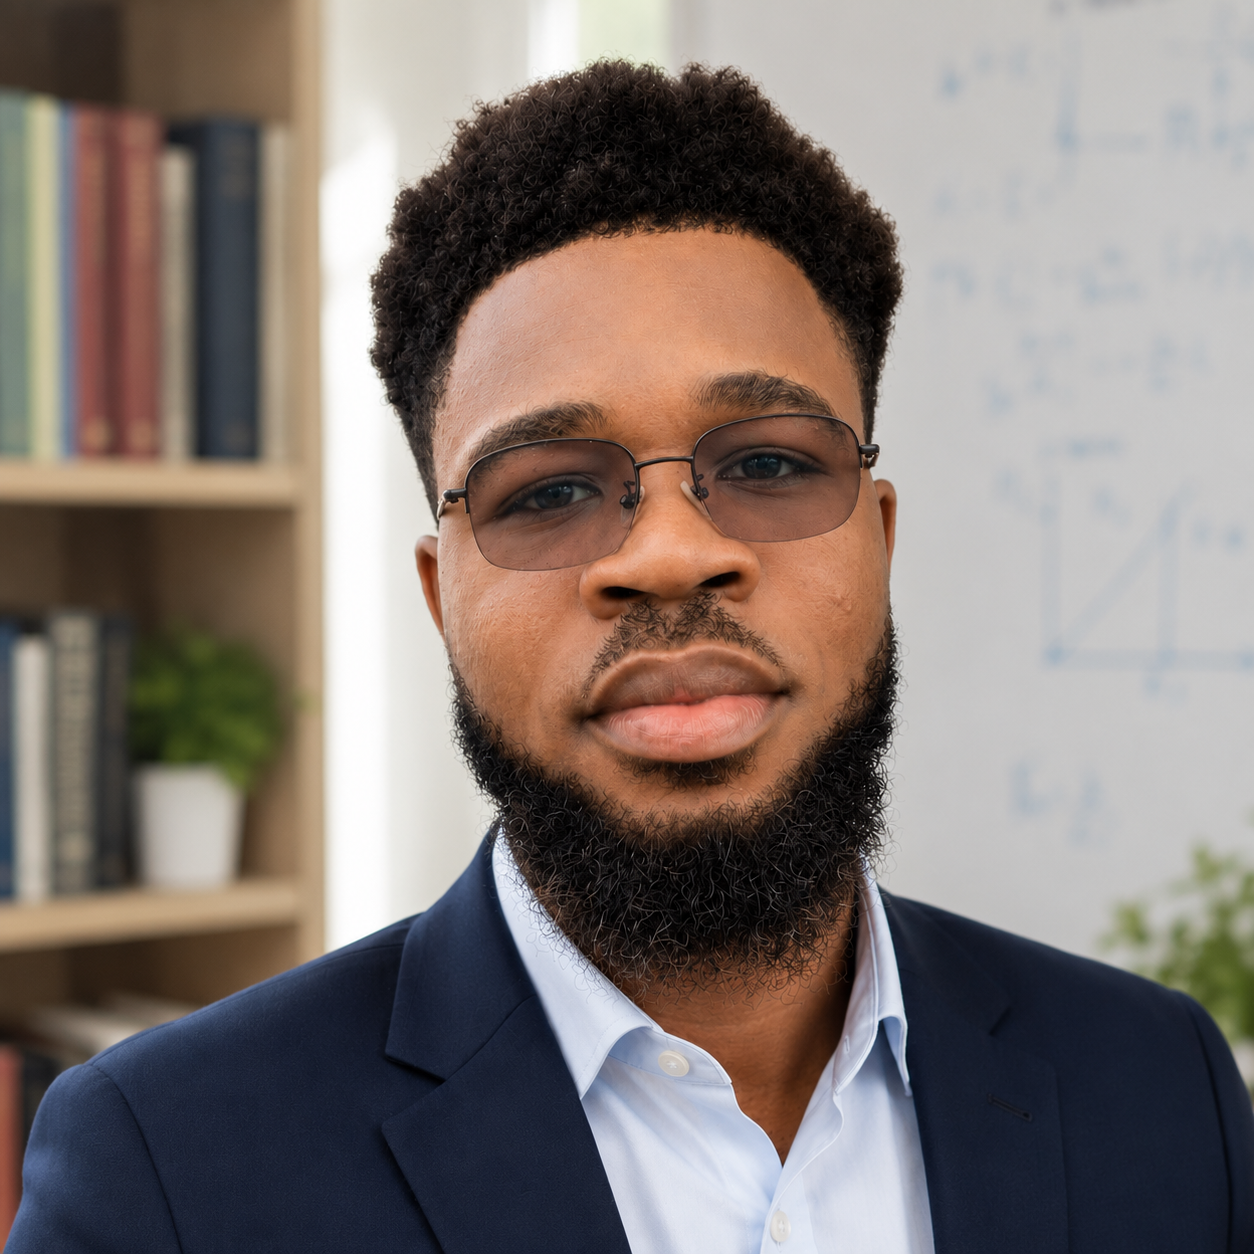
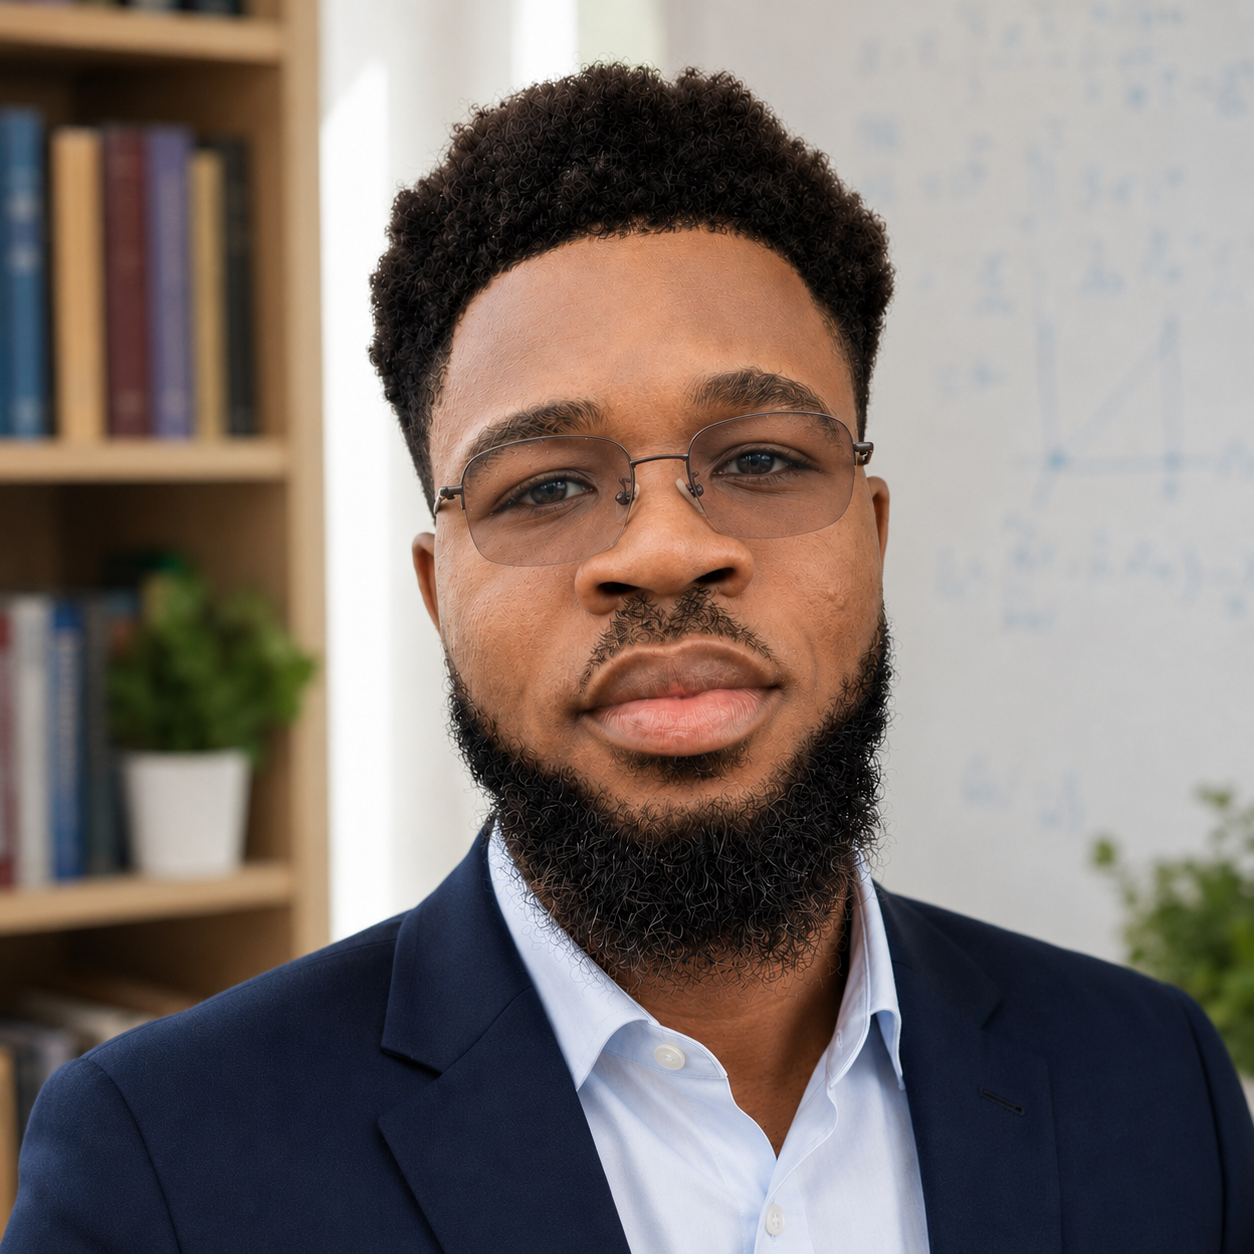
Enhance personal and project descriptions for clarity and detail; update SEO metadata and add new response page

diff --git a/response.html b/response.html
@@ -1,0 +1,1 @@
+<!doctype html><html lang="en" class="no-js"><head><meta charset="utf-8"> <!-- begin SEO --><title> Data Scientist Master’s in Mathematics &amp; Applications - Geovany Batista Polo LAGUERRE</title><meta name="description" content="Academic and professional portfolio in data science, applied mathematics, and research."><meta name="robots" content="index,follow,max-snippet:-1,max-image-preview:large,max-video-preview:-1"><meta name="author" content="Geovany Batista Polo LAGUERRE"><link rel="canonical" href="/"><link rel="alternate" hreflang="en-US" href="/"><link rel="alternate" hreflang="x-default" href="/"><meta property="og:locale" content="en-US"><meta property="og:site_name" content="Geovany Batista Polo LAGUERRE"><meta property="og:title" content=" Data Scientist Master’s in Mathematics &amp; Applications - Geovany Batista Polo LAGUERRE "><meta property="og:description" content="Academic and professional portfolio in data science, applied mathematics, and research."><meta property="og:url" content="/"><meta property="og:type" content="website"><meta property="og:image" content="/profile.png"><meta property="og:image:alt" content="Data Scientist | Master&#39;s in Mathematics &amp; Applications"><meta name="twitter:card" content="summary_large_image"><meta name="twitter:title" content=" Data Scientist Master’s in Mathematics &amp; Applications - Geovany Batista Polo LAGUERRE "><meta name="twitter:description" content="Academic and professional portfolio in data science, applied mathematics, and research."><meta name="twitter:url" content="/"><meta name="twitter:image" content="/profile.png"> <script type="application/ld+json"> { "@context": "https://schema.org", "@graph": [ { "@type": "WebSite", "@id": "/#website", "url": "/", "name": "Geovany Batista Polo LAGUERRE", "description": "Data Scientist & Master's Student in Mathematics and Applications", "inLanguage": "en-US" }, { "@type": "Person", "@id": "/#person", "name": "Geovany Batista Polo LAGUERRE", "url": "/", "sameAs": ["https://github.com/Geobatpo07","https://www.linkedin.com/in/geobatpo07","https://www.researchgate.net/profile/Geovany-Batista-Polo-Laguerre","https://orcid.org/0009-0008-8722-6411"] }, { "@type": "WebPage", "@id": "/#webpage", "url": "/", "name": " Data Scientist Master’s in Mathematics &amp; Applications - Geovany Batista Polo LAGUERRE ", "description": "Academic and professional portfolio in data science, applied mathematics, and research.", "isPartOf": { "@id": "/#website" }, "about": { "@id": "/#person" }, "inLanguage": "en-US" } ] } </script> <!-- end SEO --><link href="/feed.xml" type="application/atom+xml" rel="alternate" title="Geovany Batista Polo LAGUERRE Feed"><meta name="viewport" content="width=device-width, initial-scale=1.0"> <script> document.documentElement.className = document.documentElement.className.replace(/\bno-js\b/g, '') + ' js '; </script> <!-- For all browsers --><link rel="stylesheet" href="/assets/css/main.css"> <!-- start custom head snippets --> <!-- Support for Academicons --><link rel="stylesheet" href="/assets/css/academicons.css"/> <!-- favicon from https://commons.wikimedia.org/wiki/File:OOjs_UI_icon_academic-progressive.svg --><link rel="apple-touch-icon" sizes="180x180" href="/images/apple-touch-icon-180x180.png"/><link rel="icon" type="image/svg+xml" href="/images/favicon.svg"/><link rel="icon" type="image/png" href="/images/favicon-32x32.png" sizes="32x32"/><link rel="icon" type="image/png" href="/images/favicon-192x192.png" sizes="192x192"/><link rel="manifest" href="/images/manifest.json"/><link rel="icon" href="/images/favicon.ico"/><meta name="theme-color" content="#ffffff"/> <!-- end custom head snippets --></head><script src="https://cdn.plot.ly/plotly-latest.min.js"></script><body> <!--[if lt IE 9]><div class="notice--danger align-center" style="margin: 0;">You are using an <strong>outdated</strong> browser. Please <a href="http://browsehappy.com/">upgrade your browser</a> to improve your experience.</div><![endif]--><div class="masthead"><div class="masthead__inner-wrap"><div class="masthead__menu"><nav id="site-nav" class="greedy-nav"> <button><span class="navicon"></span></button><ul class="visible-links"><li class="masthead__menu-item masthead__menu-item--lg persist selected"> <a href="/">Geovany Batista Polo LAGUERRE</a></li><li class="masthead__menu-item "> <a href="/publications/">Publications</a></li><li class="masthead__menu-item "> <a href="/teaching/">Teaching</a></li><li class="masthead__menu-item "> <a href="/supervisors/">Supervisors</a></li><li class="masthead__menu-item "> <a href="/portfolio/">Portfolio</a></li><li class="masthead__menu-item "> <a href="/cv/">CV</a></li><li id="theme-toggle" class="masthead__menu-item persist tail"> <a role="button" aria-labelledby="theme-icon"><i id="theme-icon" class="fa-solid fa-sun" aria-hidden="true" title="toggle theme"></i></a></li></ul><ul class="hidden-links hidden"></ul></nav></div></div></div><div id="main" role="main"><div class="sidebar sticky"><div itemscope itemtype="http://schema.org/Person"><div class="author__avatar"> <img src="/images/profile.png" class="author__avatar" alt="Geovany Batista Polo LAGUERRE" fetchpriority="high" /></div><div class="author__content"><h3 class="author__name">Geovany Batista Polo LAGUERRE</h3><p class="author__pronouns">he/him</p><p class="author__bio">Data Scientist | Master's in Mathematics & Applications | Passionate about modeling, machine learning, and data engineering</p></div><div class="author__urls-wrapper"> <button class="btn btn--inverse">Follow</button><ul class="author__urls social-icons"> <!-- Font Awesome icons / Biographic information --><li class="author__desktop"><i class="fas fa-fw fa-location-dot icon-pad-right" aria-hidden="true"></i>Pointe-à-Pitre, Guadeloupe</li><li class="author__desktop"><i class="fas fa-fw fa-building-columns icon-pad-right" aria-hidden="true"></i>University of the French Antilles</li><!-- Font Awesome and Academicons icons / Academic websites --><li><a href="https://orcid.org/0009-0008-8722-6411"><i class="ai ai-orcid ai-fw icon-pad-right"></i>ORCID</a></li><li><a href="https://www.researchgate.net/profile/Geovany-Batista-Polo-Laguerre"><i class="fab fa-fw fa-researchgate icon-pad-right" aria-hidden="true"></i>ResearchGate</a></li><!-- Font Awesome icons / Repositories and software development --><li><a href="https://github.com/Geobatpo07"><i class="fab fa-fw fa-github icon-pad-right" aria-hidden="true"></i>GitHub</a></li><!-- Font Awesome icons / Social media --><li><a href="https://www.linkedin.com/in/geobatpo07"><i class="fab fa-fw fa-linkedin icon-pad-right" aria-hidden="true"></i>LinkedIn</a></li></ul></div></div></div><article class="page" itemscope itemtype="http://schema.org/CreativeWork"><meta itemprop="headline" content=" Data Scientist Master’s in Mathematics &amp; Applications "><div class="page__inner-wrap"><header><h1 class="page__title" itemprop="headline"><table><tbody><tr><td>Data Scientist</td><td>Master’s in Mathematics &amp; Applications</td></tr></tbody></table></h1></header><section class="page__content" itemprop="text"><h2 id="welcome">Welcome</h2><p>I’m <strong>Geovany Batista Polo LAGUERRE</strong>, a Data Scientist and Master’s student in Mathematics and Applications at the Université des Antilles. I combine rigorous mathematical foundations with modern data engineering practices to solve real-world problems in environmental modeling, public health, data science, and scientific computing.</p><hr /><h2 id="core-strengths">Core Strengths</h2><div id="radarChart" style="width: 100%; height: 560px"></div><script> (function() { // Serialize the incoming Liquid value safely into a JS value. `| jsonify` will // emit either a JS literal (object/array) or a JSON-encoded string depending // on how the include was called. We handle both cases. var data_serialized = {"data":[{"type":"scatterpolar","r":[95,92,89,88,90,87,85,91],"theta":["Mathematical Modeling","Statistical Inference","Machine Learning","Scientific Computing","Data Engineering","Optimization & Numerical Methods","Experimental Design","Research Communication"],"fill":"toself","line":{"color":"#0B7285","width":3},"fillcolor":"rgba(11,114,133,0.28)"}],"layout":{"title":"Competency Radar - Data Scientist","polar":{"radialaxis":{"visible":true,"range":[0,100]}},"showlegend":false},"config":{"responsive":true,"displayModeBar":false}}; var layout_serialized = "{}"; var config_serialized = "{}"; function parseMaybeString(s) { // If Liquid produced a JS literal (object/array), `typeof s` will be 'object'. // If Liquid produced a JSON string, `typeof s` will be 'string' and we try to parse it. try { if (typeof s === 'string') { // Some callers pass a JSON string (from the page include using single quotes). // Attempt a normal parse. If that yields another string (double-encoded), parse again. var first = JSON.parse(s); if (typeof first === 'string') { return JSON.parse(first); } return first; } return s; } catch (e) { // Fall back safely to the original value return s; } } var data = parseMaybeString(data_serialized) || []; var layout = parseMaybeString(layout_serialized) || {}; var config = parseMaybeString(config_serialized) || {}; // If the include was passed an object that wraps the usual Plotly keys // (i.e. { data: ..., layout: ..., config: ... }), unwrap it. if (data && data.data && (Array.isArray(data.data) || typeof data.data === 'object')) { config = Object.assign({}, data.config || {}, config); layout = Object.assign({}, data.layout || {}, layout); data = data.data; } // Render the plot. Use Plotly.react which is safe to call multiple times. if (typeof Plotly !== 'undefined' && Plotly.react) { Plotly.react("radarChart", data, layout, config); } else { // If Plotly hasn't loaded yet, queue the render for when it becomes available. var interval = setInterval(function() { if (typeof Plotly !== 'undefined' && Plotly.react) { clearInterval(interval); Plotly.react("radarChart", data, layout, config); } }, 50); // Stop trying after a few seconds to avoid runaway timers setTimeout(function() { clearInterval(interval); }, 5000); } })(); </script><p>This radar chart provides a holistic view of the competencies required for data science research in applied mathematics.</p><hr /><table><tbody><tr><td><strong>Technical Stack</strong>: Python · R · SQL · C++ · TypeScript</td><td>DuckDB · Apache Iceberg · Trino · dbt · Shiny</td><td>TensorFlow · Scikit-learn · PyTorch</td></tr></tbody></table><hr /><h2 id="research-interests">Research Interests</h2><p>I am passionate about bridging mathematics and practical application across several interconnected domains:</p><svg width="100%" viewBox="0 0 620 220" style="max-width: 100%; height: auto; margin: 20px 0; overflow: hidden;" preserveAspectRatio="xMidYMid meet"> <!-- Domain boxes with text wrapping --> <rect x="10" y="10" width="135" height="90" fill="#e8f4f8" stroke="#0066cc" stroke-width="2" rx="5" /> <text x="20" y="32" font-size="12" font-weight="bold" fill="#0066cc">Mathematical</text> <text x="20" y="46" font-size="12" font-weight="bold" fill="#0066cc">Modeling</text> <text x="20" y="62" font-size="10" fill="#333" font-family="monospace">• Compartmental</text> <text x="20" y="75" font-size="10" fill="#333" font-family="monospace">• Environmental</text> <text x="20" y="88" font-size="10" fill="#333" font-family="monospace">• Health systems</text> <rect x="160" y="10" width="135" height="90" fill="#f0f8e8" stroke="#009900" stroke-width="2" rx="5" /> <text x="170" y="32" font-size="12" font-weight="bold" fill="#009900">Data</text> <text x="170" y="46" font-size="12" font-weight="bold" fill="#009900">Engineering</text> <text x="170" y="62" font-size="10" fill="#333" font-family="monospace">• Scalable</text> <text x="170" y="75" font-size="10" fill="#333" font-family="monospace">• Modern stacks</text> <text x="170" y="88" font-size="10" fill="#333" font-family="monospace">• ETL automation</text> <rect x="310" y="10" width="135" height="90" fill="#fff4e8" stroke="#ff6600" stroke-width="2" rx="5" /> <text x="320" y="32" font-size="12" font-weight="bold" fill="#ff6600">Scientific</text> <text x="320" y="46" font-size="12" font-weight="bold" fill="#ff6600">Computing</text> <text x="320" y="62" font-size="10" fill="#333" font-family="monospace">• Numerical</text> <text x="320" y="75" font-size="10" fill="#333" font-family="monospace">• Symbolic</text> <text x="320" y="88" font-size="10" fill="#333" font-family="monospace">• Reproducible</text> <rect x="460" y="10" width="135" height="90" fill="#f8e8f8" stroke="#cc0099" stroke-width="2" rx="5" /> <text x="470" y="32" font-size="12" font-weight="bold" fill="#cc0099">ML &amp;</text> <text x="470" y="46" font-size="12" font-weight="bold" fill="#cc0099">Statistics</text> <text x="470" y="62" font-size="10" fill="#333" font-family="monospace">• Deep learning</text> <text x="470" y="75" font-size="10" fill="#333" font-family="monospace">• Inference</text> <text x="470" y="88" font-size="10" fill="#333" font-family="monospace">• Predictive</text> </svg><p>For detailed background, education, and professional experience, see my <a href="/cv/">CV</a>.</p><hr /><h2 id="what-i-bring">What I Bring</h2><p>✦ <strong>Rigorous Mathematical Foundation</strong> — Pure mathematics, functional analysis, and differential equations as a solid base for modeling and analysis</p><p>✦ <strong>Practical Data Science</strong> — From data pipeline architecture to model deployment; experience with Python, R, SQL, and modern tooling</p><p>✦ <strong>Interdisciplinary Perspective</strong> — Civil engineering degree + mathematics specialization + hands-on industry experience in data and BI</p><p>✦ <strong>Research-Driven Mindset</strong> — Active contribution to environmental modeling, finite field theory, and scientific computing frameworks</p><p>✦ <strong>Proven Delivery</strong> — Published research, open-source contributions, and real-world data projects in healthcare and environmental sectors</p><hr /><p>I am focused on <strong>mathematical modeling of complex environmental and ecological systems</strong> under the supervision of <strong>Prof. Pascal Poullet</strong> (Université des Antilles).</p><h3 id="active-projects">Active Projects</h3><dl><dt><strong>Chlordecone Contamination Modeling</strong></dt><dd>Developing continuous-time compartmental ODE systems to understand environmental transfer pathways and human exposure dynamics to chronic chlordecone contamination in tropical ecosystems.</dd><dt><strong>Character Theory in Finite Fields</strong></dt><dd>Exploring additive characters, orthogonality relations, and fundamental structures in finite field theory with applications to theoretical mathematics.</dd></dl><hr /><h2 id="collaboration--contact">Collaboration &amp; Contact</h2><p>I welcome opportunities to contribute to collaborative research and projects at the intersection of applied mathematics, data science, and scientific computing.</p><p><strong>Location</strong>: Pointe-à-Pitre, Guadeloupe<br /> <strong>Profiles</strong>: <a href="https://github.com/Geobatpo07">GitHub</a> | <a href="https://www.linkedin.com/in/geobatpo07">LinkedIn</a> | <a href="https://www.researchgate.net/profile/Geovany-Batista-Polo-Laguerre">ResearchGate</a> | <a href="https://orcid.org/0009-0008-8722-6411">ORCID</a></p></section><footer class="page__meta"></footer></div></article></div><div class="page__footer"><footer> <!-- start custom footer snippets --> <a href="/sitemap/">Sitemap</a> <!-- Support for MatJax --> <script defer src="https://cdnjs.cloudflare.com/polyfill/v3/polyfill.min.js?features=es6"></script> <script defer src="https://cdn.jsdelivr.net/npm/mathjax@3/es5/tex-mml-chtml.js" id="MathJax-script"></script> <!-- Support for Mermaid --> <script type="module"> import mermaid from 'https://cdn.jsdelivr.net/npm/mermaid@11/dist/mermaid.esm.min.mjs'; mermaid.initialize({startOnLoad:true, theme:'default'}); await mermaid.run({querySelector:'code.language-mermaid'}); </script> <!-- end custom footer snippets --><div class="page__footer-follow"><ul class="social-icons"><li><strong>Follow:</strong></li><li><a href="https://github.com/Geobatpo07"><i class="fab fa-github" aria-hidden="true"></i> GitHub</a></li><li><a href="/feed.xml"><i class="fa fa-fw fa-rss-square" aria-hidden="true"></i> Feed</a></li></ul></div><div class="page__footer-copyright"> &copy; 2026 Geovany Batista Polo LAGUERRE, Powered by <a href="https://jekyllrb.com" rel="nofollow">Jekyll</a> &amp; <a href="https://github.com/academicpages/academicpages.github.io">AcademicPages</a>, a fork of <a href="https://mademistakes.com/work/minimal-mistakes-jekyll-theme/" rel="nofollow">Minimal Mistakes</a>.<br /> Site last updated 2026-03-23</div></footer></div><script type="module" src="/assets/js/main.min.js"></script></body></html>

diff --git a/_includes/seo.html b/_includes/seo.html
@@ -150,6 +150,17 @@
       "@id": {{ site.url | append: "/#person" | jsonify }},
       "name": {{ site.author.name | default: site.name | jsonify }},
       "url": {{ site.url | append: "/" | jsonify }},
+      "jobTitle": "Applied Mathematics, Scientific Computing & AI Researcher",
+      "affiliation": {
+        "@type": "Organization",
+        "name": {{ site.author.employer | jsonify }}
+      },
+      "alumniOf": [
+        { "@type": "CollegeOrUniversity", "name": "École Normale Supérieure de l'Université d'État d'Haïti" },
+        { "@type": "CollegeOrUniversity", "name": "Faculté des Sciences de l'Université d'État d'Haïti" },
+        { "@type": "EducationalOrganization", "name": "MITx" }
+      ],
+      "knowsAbout": ["Applied Mathematics", "Mathematical Modelling", "Scientific Computing", "Data Science", "Artificial Intelligence", "Healthcare Analytics"],
       "sameAs": {{ site.social.links | jsonify }}
     },
     {

diff --git a/_pages/causerie.md b/_pages/causerie.md
@@ -4,6 +4,7 @@ redirect_from:
   - /contact
   - /contact/
 title: "Contact"
+description: "Get in touch to discuss research collaboration, teaching, mentoring, or scientific computing and healthcare analytics projects."
 layout: single
 author_profile: false
 full_width: true
@@ -214,7 +215,7 @@ Choose a convenient time below if you would like to discuss research, collaborat
 ## Location
 
 <div class="rdv-panel">
-  <p class="rdv-title">Villeneuve-le-Roi, Île-de-France, France</p>
+  <p class="rdv-title">Paris, France</p>
   <p class="rdv-subtitle">
     Available for both remote and in-person collaborations when appropriate.
   </p>

diff --git a/_pages/research.md b/_pages/research.md
@@ -2,8 +2,12 @@
 layout: single
 permalink: /research/
 title: "Research"
+description: "Research questions, themes, and current work in mathematical modelling, scientific computing, artificial intelligence, and healthcare analytics, with research outputs and open-source software."
 full_width: true
 author_profile: false
+redirect_from:
+  - /publications/
+  - /publications.html
 ---
 
 <section class="hero hero--centered reveal">

diff --git a/_pages/projects.md b/_pages/projects.md
@@ -2,8 +2,12 @@
 layout: single
 permalink: /projects/
 title: "Projects"
+description: "A curated library of case studies in environmental modelling, scientific computing, AI research tooling, and healthcare decision support, each covering the problem, methodology, and results."
 full_width: true
 author_profile: false
+redirect_from:
+  - /portfolio/
+  - /portfolio.html
 ---
 
 <section class="hero hero--centered reveal">

diff --git a/_projects/chlordecone.md b/_projects/chlordecone.md
@@ -2,6 +2,8 @@
 title: "Mathematical Modelling of Chlordecone Contamination"
 excerpt: "A compartmental ODE model of seasonal chlordecone exposure in Guadeloupe, published as a research preprint and deployed as a live decision-support simulation tool."
 permalink: /projects/chlordecone/
+redirect_from:
+  - /portfolio/simulation-chlordecone/
 status: "Active Research"
 status_key: "Active"
 domain: "Environmental Modelling"

diff --git a/_projects/scientific-assistant.md b/_projects/scientific-assistant.md
@@ -2,6 +2,8 @@
 title: "Scientific Assistant"
 excerpt: "A local-first, multi-agent framework combining symbolic mathematics, numerical methods, and document intelligence for reproducible research."
 permalink: /projects/scientific-assistant/
+redirect_from:
+  - /portfolio/scientific-assistant/
 status: "Active Development"
 status_key: "Active"
 domain: "Artificial Intelligence"

diff --git a/_projects/datahut.md b/_projects/datahut.md
@@ -2,6 +2,8 @@
 title: "DataHut-DuckHouse"
 excerpt: "A modular, multi-tenant analytics platform built for reproducibility first: the data infrastructure underneath the rest of this research."
 permalink: /projects/datahut/
+redirect_from:
+  - /portfolio/datahut-duckhouse/
 status: "Active · Open Source"
 status_key: "Active"
 domain: "Scientific Data Infrastructure"

diff --git a/_projects/sentiment-analysis.md b/_projects/sentiment-analysis.md
@@ -2,6 +2,8 @@
 title: "Sentiment Analysis Pipeline"
 excerpt: "An NLP pipeline for automated sentiment classification, built as a testbed for text-preprocessing and evaluation methodology."
 permalink: /projects/sentiment-analysis/
+redirect_from:
+  - /portfolio/sentiment-analysis/
 status: "Completed"
 status_key: "Completed"
 domain: "Artificial Intelligence"

diff --git a/_projects/medical-triage-system.md b/_projects/medical-triage-system.md
@@ -2,6 +2,8 @@
 title: "Medical Triage System"
 excerpt: "A C++ decision-support tool using a Random Forest model to support pre-triage prioritization in emergency contexts."
 permalink: /projects/medical-triage-system/
+redirect_from:
+  - /portfolio/medical-triage-system/
 status: "Prototype Complete"
 status_key: "Prototype"
 domain: "Healthcare Analytics"

diff --git a/_pages/about.md b/_pages/about.md
@@ -1,6 +1,7 @@
 ---
 permalink: /about/
 title: "My Scientific Journey"
+description: "How one question, how can mathematics help us understand complex systems well enough to make better decisions, led from pure mathematics through scientific computing and data to AI and healthcare analytics."
 full_width: true
 author_profile: false
 redirect_from:

diff --git a/_pages/home.md b/_pages/home.md
@@ -1,6 +1,7 @@
 ---
 permalink: /
 title: "Applied Mathematics, Data Science & AI Research"
+description: "Geovany Batista Polo Laguerre: applied mathematics, scientific computing, data science, AI, and healthcare analytics research, from differential equations to public-health decision support."
 author_profile: false
 full_width: true
 ---
